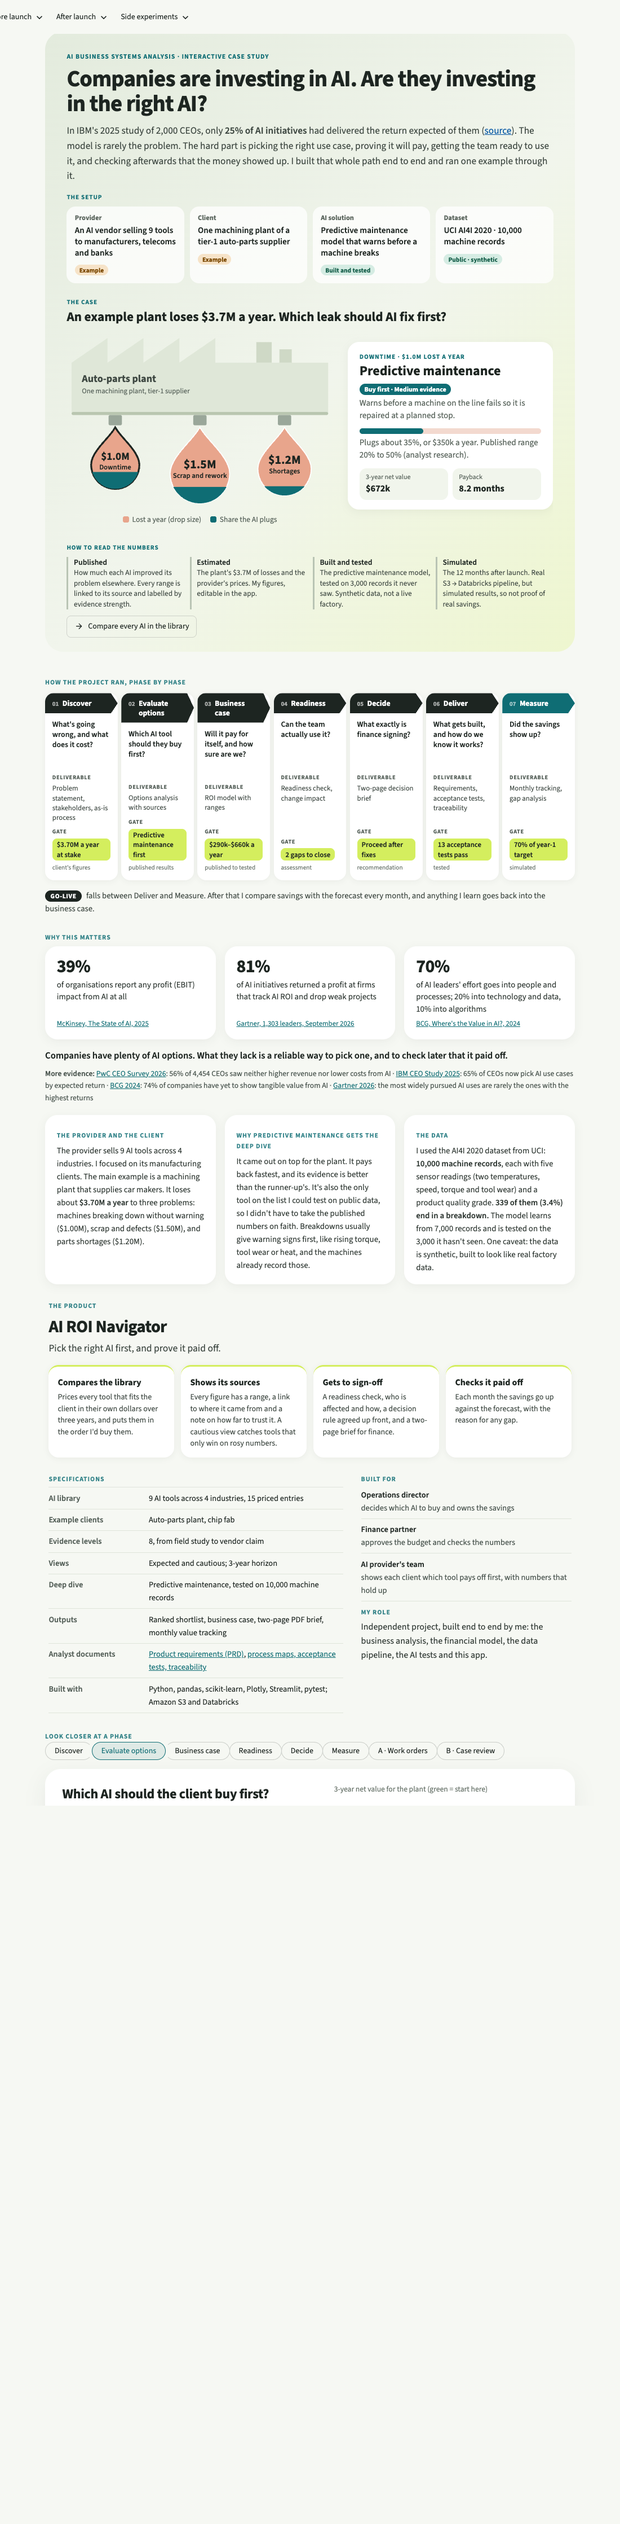
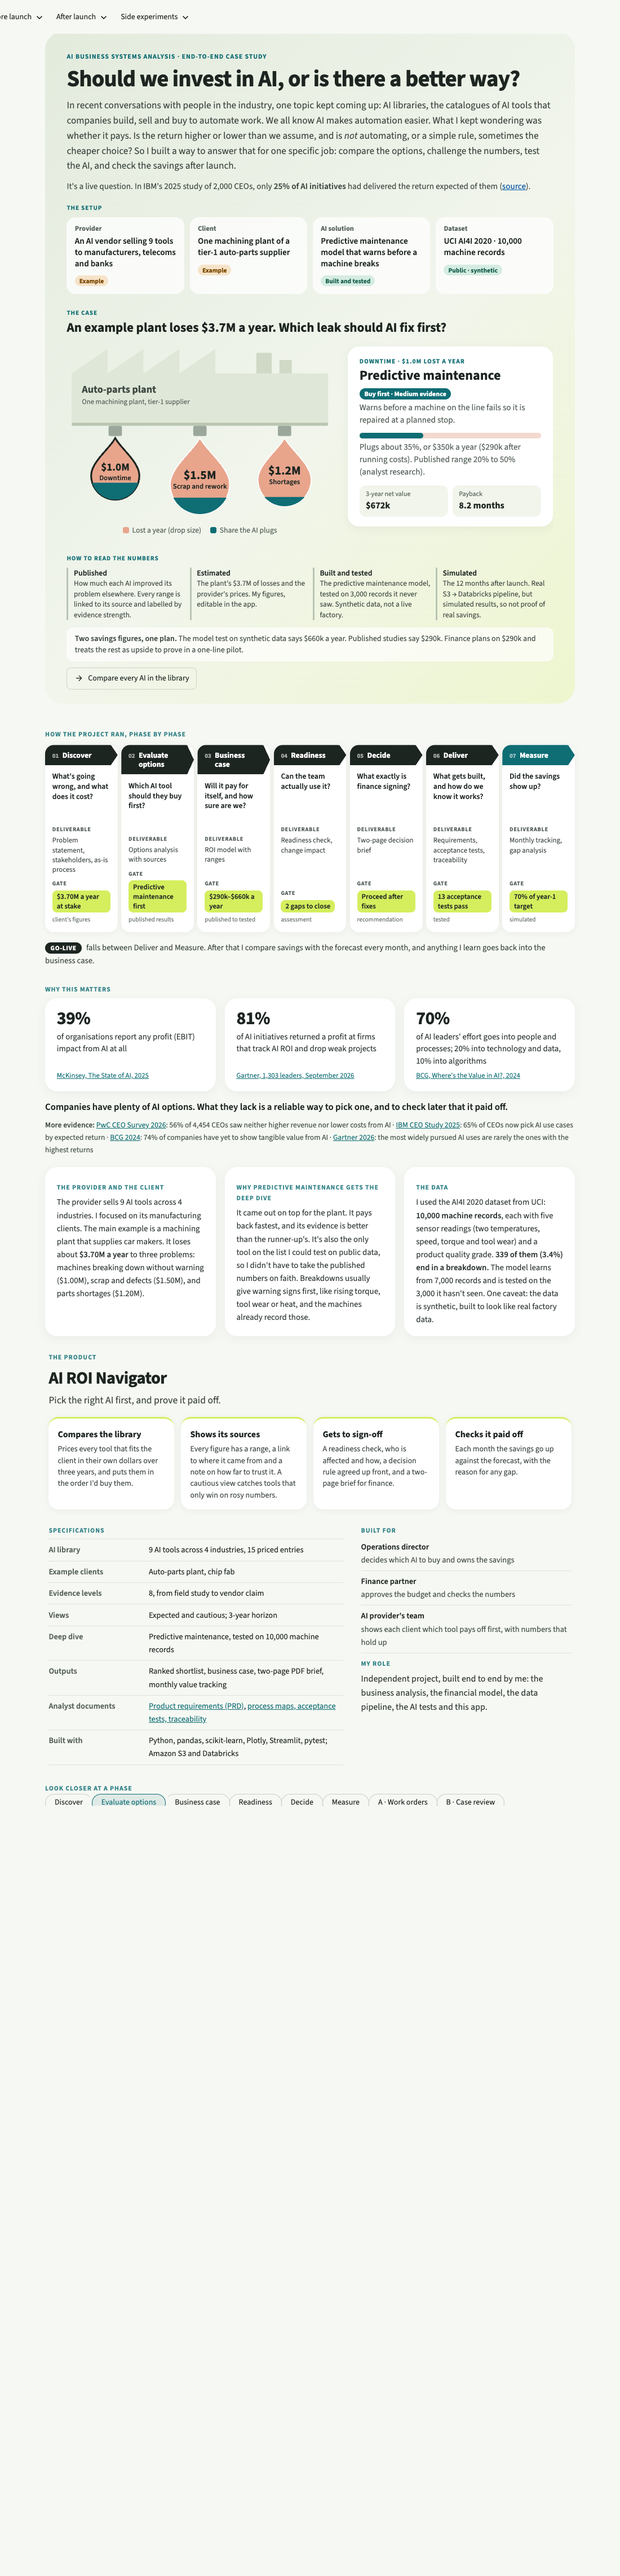
Ask "AI, or a better way?": personal intro, options considered, savings reconciled
- Hero leads with the question and the personal story behind it; IBM 25% as backing evidence
- Decide page: "Options considered, AI or not" table (roll out, pilot after fixes, manual rules,
  wait, don't buy), computed live and following the decision rule
- Front page reconciles the savings figures: $350k a year ($290k after running costs) on the map,
  and "two savings figures, one plan" ($660k model test vs $290k published; finance plans on $290k)
- Acceptance tests consistently 13 across the app, README and roadmap

Changed region(s): [[0.0618, 0.0, 0.9273, 0.7147]]

diff --git a/app.py b/app.py
@@ -593,6 +593,41 @@ DECISION_RULES = [("Stop", "Expected savings are not positive"),
                   ("Proceed", "Savings stay positive in the worst case and the team is ready")]
 
 
+# Which option each decision-rule outcome stands for, in the options table on the Decide page
+OPTION_FOR_LABEL = {"Proceed": "Buy the AI and roll it out", "Proceed after fixes": "Pilot on one line after fixes",
+                    "Revise": "Wait until the team is ready", "Stop": "Don't buy it"}
+
+
+def options_considered(val: dict, rd: dict, label: str) -> str:
+    """Every option the decision weighed, AI or not, with one line on why it was or wasn't picked."""
+    rules = alternatives(val, val["costs"])["rules"]
+    worst = val["cases"]["Low"]["annual_net"]
+    c = val["costs"]
+    weakest = rd["weakest"][0][0].lower() if rd.get("weakest") else "n/a"
+    why = {
+        "Buy the AI and roll it out": (f"Saves {money(val['annual_net'])} a year as planned, but the team check says "
+                                       f"\"{rd['verdict'].lower()}\" (weakest area: {weakest})."
+                                       if rd["verdict"] != "Go" else
+                                       f"Saves {money(val['annual_net'])} a year and the team is ready."),
+        "Pilot on one line after fixes": ("Close the readiness gaps, then prove the savings and the false-alarm rate "
+                                          "on one line before scaling."),
+        "Use the manual's rules instead": (f"No AI needed and saves {money(rules['annual_net'])} a year, but raises "
+                                           f"~{rules['false_alarms']:.0f} false alarms a year against the AI's "
+                                           f"~{val['false_alarms']:.0f}, the kind of noise a crew learns to ignore. The rules stay, to explain "
+                                           "each AI warning."),
+        "Wait until the team is ready": (f"Still saves {money(worst)} a year in the worst case, so waiting forgoes "
+                                         f"about {money(val['annual_net'] / 12)} a month."
+                                         if worst > 0 else "Savings turn negative if costs are worse than expected."),
+        "Don't buy it": (f"Breakdowns keep costing the plant {money(c.failures_per_year * c.cost_missed)} a year, "
+                         "and the evidence for the AI is medium, not weak."
+                         if val["annual_net"] > 0 else "Expected savings are not positive."),
+    }
+    chosen = OPTION_FOR_LABEL.get(label)
+    return ("| Option | Verdict | Why |\n|---|---|---|\n" + "".join(
+        f"| {'**' + o + '**' if o == chosen else o} | {'**Chosen**' if o == chosen else 'Not chosen'} | {md(w)} |\n"
+        for o, w in why.items()))
+
+
 def decision_rule(val: dict, rd: dict) -> tuple[str, str]:
     """The recommendation finance is asked to approve: (short label, one sentence)."""
     worst = val["cases"]["Low"]["annual_net"]
@@ -747,7 +782,7 @@ def page_case():
 {reason}
 
 {rules_md}
-Acceptance criteria: 12 user acceptance tests and a requirements traceability matrix (docs/requirements.md).
+Acceptance criteria: 13 user acceptance tests and a requirements traceability matrix (docs/requirements.md).
 """ + tracking_md + """
 ## Key assumptions
 - Plant costs as entered in Business case (illustrative defaults otherwise)
@@ -759,6 +794,8 @@ Acceptance criteria: 12 user acceptance tests and a requirements traceability ma
               ("Team ready?", rd["verdict"], f"average {rd['avg']:.1f} / 5")])
         st.markdown("**How the recommendation is decided**")
         st.markdown(rules_md.replace(f"| {label} |", f"| **{label}** (this case) |"))
+        st.markdown("**Options considered, AI or not**")
+        st.markdown(options_considered(val, rd, label))
         b1, b2, _ = st.columns([1.3, 1, 1.2])
         b1.download_button("Download the decision brief (PDF)", build_brief(business_case_brief(val, rd)),
                            file_name="ai_decision_brief.pdf", mime="application/pdf", key="dl_brief", type="primary",
@@ -1533,7 +1570,7 @@ def tour_content(stage: str) -> dict:
         return dict(page="case", q="What exactly is finance being asked to approve?",
                     how="Put the value, the range of outcomes, the risks and the readiness gaps on one page, with a "
                         "rule for when to proceed, fix first, revise or stop.",
-                    made="One-page business case (download), decision rule, 12 acceptance tests, and a traceability "
+                    made="One-page business case (download), decision rule, 13 acceptance tests, and a traceability "
                          "matrix linking each requirement to its test.",
                     docs=["Acceptance tests and traceability"],
                     decision=": ".join(decision_rule(val, rd)),
@@ -1818,9 +1855,12 @@ def setup_strip() -> str:
         for r, w, t in SETUP) + '</div></div>')
 
 
-def number_key() -> str:
+def number_key(model_net: float, published_net: float) -> str:
     return ('<div class="numkey"><div class="setup-label">How to read the numbers</div><div class="numkey-row">'
-            + "".join(f'<div><b>{k}</b><span>{esc_html(t)}</span></div>' for k, t in NUMBER_KINDS) + '</div></div>')
+            + "".join(f'<div><b>{k}</b><span>{esc_html(t)}</span></div>' for k, t in NUMBER_KINDS) + '</div>'
+            f'<div class="twofig"><b>Two savings figures, one plan.</b> The model test on synthetic data says '
+            f'{money(model_net)} a year. Published studies say {money(published_net)}. Finance plans on '
+            f'{money(published_net)} and treats the rest as upside to prove in a one-line pilot.</div></div>')
 
 
 def leak_map() -> str:
@@ -1833,7 +1873,7 @@ def leak_map() -> str:
         leaks.append({
             "name": LEAK_SHORT.get(problem, problem), "cost": f"${cost / 1e6:.1f}M", "raw": cost,
             "ai": row["solution"], "rank": int(row["rank"]), "does": row["what_it_does"],
-            "plug": float(row["improvement_mid"]), "plug_year": money(row["value_mid"]),
+            "plug": float(row["improvement_mid"]), "plug_year": money(row["value_mid"]), "net_year": money(row["net_mid"]),
             "range": f"{row['improvement_low']:.0%} to {row['improvement_high']:.0%}",
             "net3": money(row["net3_mid"]), "payback": months(row["payback"]),
             "strength": evidence_strength(row["evidence"]), "evidence": row["evidence"],
@@ -1909,7 +1949,7 @@ function show(i) {
    <span class="badge" style="background:${l.color}">${l.rank === 1 ? "Buy first · " : "Option #" + l.rank + " · "}${l.strength} evidence</span>
    <div class="muted">${l.does}.</div>
    <div class="bar"><div style="width:${Math.round(l.plug * 100)}%"></div></div>
-   <div class="muted">Plugs about ${Math.round(l.plug * 100)}%, or ${l.plug_year} a year. Published range ${l.range} (${l.evidence.toLowerCase()}).</div>
+   <div class="muted">Plugs about ${Math.round(l.plug * 100)}%, or ${l.plug_year} a year (${l.net_year} after running costs). Published range ${l.range} (${l.evidence.toLowerCase()}).</div>
    <div class="stats"><div><span>3-year net value</span><b>${l.net3}</b></div><div><span>Payback</span><b>${l.payback}</b></div></div>`;
 }
 document.querySelectorAll(".leak").forEach(n => {
@@ -1930,19 +1970,23 @@ def page_home():
     c = val["costs"]
     with st.container(key="hero"):
         st.markdown(
-            '<div class="eyebrow">AI business systems analysis · interactive case study</div>'
-            '<div class="hero-title">Companies are investing in AI. Are they investing in the right AI?</div>'
-            '<div class="hero-text">In IBM\'s 2025 study of 2,000 CEOs, only <b>25% of AI initiatives</b> had delivered '
-            'the return expected of them (<a href="' + WHY_IT_MATTERS_IBM + '" target="_blank">source</a>). The model '
-            'is rarely the problem. The hard part is picking the right use case, proving it will pay, getting the team '
-            'ready to use it, and checking afterwards that the money showed up. I built that whole path end to end and '
-            'ran one example through it.</div>' + setup_strip(),
+            '<div class="eyebrow">AI business systems analysis · end-to-end case study</div>'
+            '<div class="hero-title">Should we invest in AI, or is there a better way?</div>'
+            '<div class="hero-text">In recent conversations with people in the industry, one topic kept coming up: '
+            'AI libraries, the catalogues of AI tools that companies build, sell and buy to automate work. We all know '
+            'AI makes automation easier. What I kept wondering was whether it pays. Is the return higher or lower than '
+            'we assume, and is <i>not</i> automating, or a simple rule, sometimes the cheaper choice? So I built a way '
+            'to answer that for one specific job: compare the options, challenge the numbers, test the AI, and check '
+            'the savings after launch.</div>'
+            '<div class="hero-stat">It\'s a live question. In IBM\'s 2025 study of 2,000 CEOs, only <b>25% of AI '
+            'initiatives</b> had delivered the return expected of them (<a href="' + WHY_IT_MATTERS_IBM + '" '
+            'target="_blank">source</a>).</div>' + setup_strip(),
             unsafe_allow_html=True)
         st.markdown('<div class="case-label">The case</div><div class="case-title">An example plant loses $3.7M a '
                     'year. Which leak should AI fix first?</div>', unsafe_allow_html=True)
         with st.container(key="leakmap"):
             components.html(leak_map(), height=420)
-        st.markdown(number_key(), unsafe_allow_html=True)
+        st.markdown(number_key(val["annual_net"], published_estimate(c)["mid"]), unsafe_allow_html=True)
         st.page_link(PAGES["pick"], label="Compare every AI in the library", icon=":material/arrow_forward:")
 
     with st.container(key="phases"):
@@ -2099,6 +2143,9 @@ a.node:focus-visible { outline: 3px solid #0f6d74; outline-offset: 2px; }
 .case-label { text-transform: uppercase; letter-spacing: 0.08em; font-size: 0.7rem; font-weight: 700; color: #0f6d74; }
 .case-title { font-size: 1.45rem; font-weight: 700; line-height: 1.25; color: #1d2521; margin: 0.1rem 0 0.2rem; }
 .numkey { margin-bottom: 0.9rem; }
+.twofig { margin-top: 0.8rem; font-size: 0.88rem; line-height: 1.45; color: #3d4741; background: rgba(255,255,255,.7);
+          border-radius: 12px; padding: 0.6rem 0.9rem; }
+.hero-stat { font-size: 0.95rem; color: #3d4741; margin: -0.3rem 0 1.1rem; }
 .numkey-row { display: grid; grid-template-columns: repeat(4, minmax(0, 1fr)); gap: 0.6rem; }
 .numkey-row div { border-left: 3px solid #b9c4b4; padding-left: 0.6rem; font-size: 0.83rem; line-height: 1.4; color: #3d4741; }
 .numkey-row b { display: block; color: #1d2521; font-size: 0.86rem; }

diff --git a/README.md b/README.md
@@ -2,7 +2,9 @@
 
 > Which AI should a business buy first, and will it pay off?
 
-An interactive case study in **AI business systems analysis**. AI vendors pitch their best numbers, and most buyers never check them once the tool is live. I wanted to see what doing this properly looks like. So I took one provider's catalogue of AI tools, priced each one for a single client, picked the one worth buying first, and followed it through a full project lifecycle, from the business case to the savings a year after launch.
+An end-to-end case study in **AI business systems analysis**: *should we invest in AI, or is there a better way?*
+
+In recent conversations with people in the industry, one topic kept coming up: AI libraries, the catalogues of AI tools that companies build, sell and buy to automate work. We all know AI makes automation easier. What I kept wondering was whether it pays. Is the return higher or lower than we assume, and is *not* automating, or a simple rule, sometimes the cheaper choice? So I built a way to answer that for one specific job. I took one provider's catalogue of AI tools, priced each one for a single client, weighed it against doing nothing and against simple rules, and followed the best option through a full project lifecycle, from the business case to the savings a year after launch.
 
 **Why this matters:** in [IBM's 2025 CEO Study](https://newsroom.ibm.com/2025-05-06-ibm-study-ceos-double-down-on-ai-while-navigating-enterprise-hurdles), only 25% of AI initiatives delivered the expected ROI, yet 65% of CEOs now pick AI use cases by ROI. [Gartner](https://www.gartner.com/en/newsroom/press-releases/gartner-survey-finds-only-22-percent-of-organizations-have-successfully-scaled-ai-across-multiple-business-units) (September 2026) found that firms which track AI ROI and drop weak projects saw positive returns on 81% of their AI initiatives. [BCG](https://www.bcg.com/press/24october2024-ai-adoption-in-2024-74-of-companies-struggle-to-achieve-and-scale-value) found AI leaders put 70% of their effort into people and processes and only 10% into algorithms. More: [PwC 2026](https://www.pwc.com/gx/en/issues/c-suite-insights/ceo-survey.html) (56% of CEOs saw no revenue or cost benefit), [McKinsey 2025](https://www.mckinsey.com/capabilities/quantumblack/our-insights/the-state-of-ai-2025) (39% report any profit impact). So the question is not whether to buy AI, but which tool first, how sure the numbers are, and how to prove it paid off.
 
@@ -55,7 +57,7 @@ Every page shows **the answer first** (the question, the answer, three numbers, 
 |---|---|
 | [Product requirements document (PRD)](docs/prd.md) | Start here: problem and evidence, goals and non-goals, users, as-is / to-be for the purchase decision, prioritised user stories, success metrics, risks, alternatives considered, launch plan |
 | [Executive decision brief (sample PDF)](docs/decision_brief_sample.pdf) | Two-page investment brief generated in the Decide phase: recommendation, options, savings calculation, risks, decision gates |
-| [Requirements pack](docs/requirements.md) | Process maps today and with AI, integration spec (warning → work order), data dictionary, 12 user acceptance tests, requirements traceability matrix |
+| [Requirements pack](docs/requirements.md) | Process maps today and with AI, integration spec (warning → work order), data dictionary, 13 user acceptance tests, requirements traceability matrix |
 | [Solution design](docs/solution_design.md) | Stakeholders, use cases, 36+ user stories with acceptance criteria and MoSCoW priorities, fishbone of why value falls short, RACI |
 | [Roadmap](docs/roadmap.md) | Now / Next / Later, prioritised by value × ease |
 | [Delivery log](docs/delivery.md) | How the work was split into increments and checked |

diff --git a/docs/roadmap.md b/docs/roadmap.md
@@ -52,7 +52,7 @@ Value × ease, each scored 1–5 (priority = value × ease; Start now = both 3.5
 | GenAI pilot | Bedrock work-order writer measured on 30 alerts; ROI across five cost categories | **Done** |
 | AI analyst agents | Intake, memo and red-team agents graded v1 → v3 | **Done** |
 | Case-study overview | Lifecycle chart with each stage's evidence type, my role, what I analysed / produced / decided per stage, GenAI experiments set apart | **Done** |
-| Requirements pack | As-is / to-be process maps, integration spec, data dictionary, 12 acceptance tests, traceability matrix | **Done** |
+| Requirements pack | As-is / to-be process maps, integration spec, data dictionary, 13 acceptance tests, traceability matrix | **Done** |
 
 ## Next: 1–3 months
 
